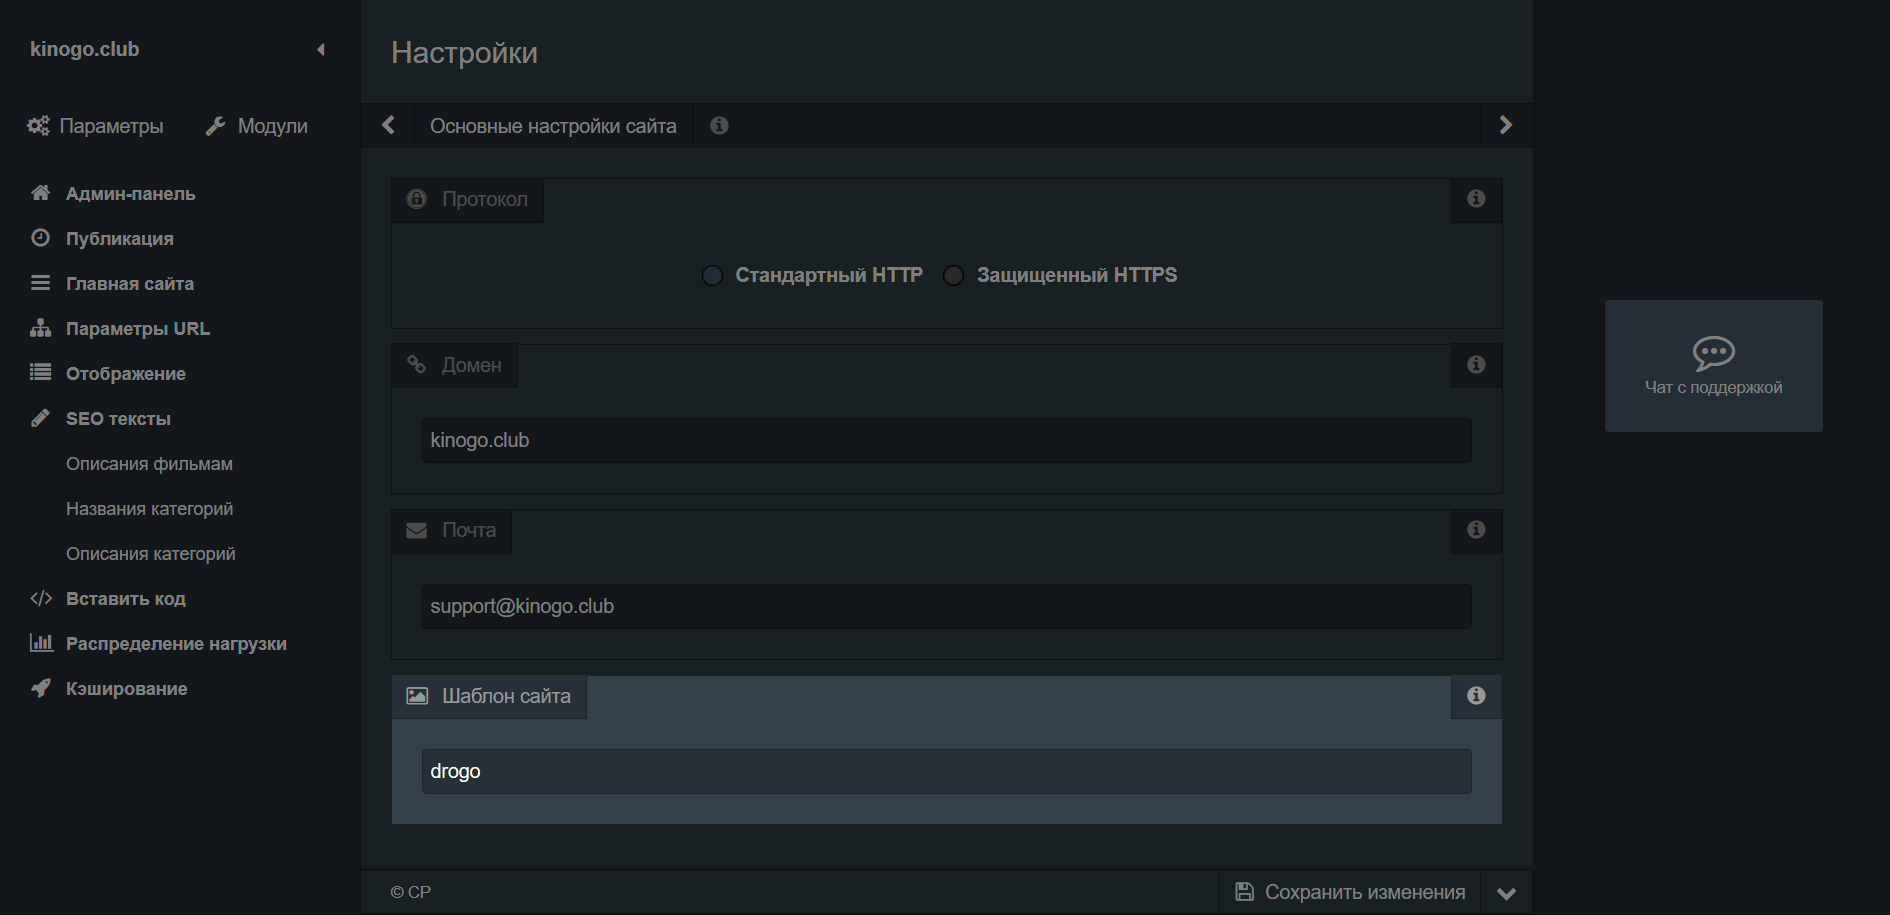
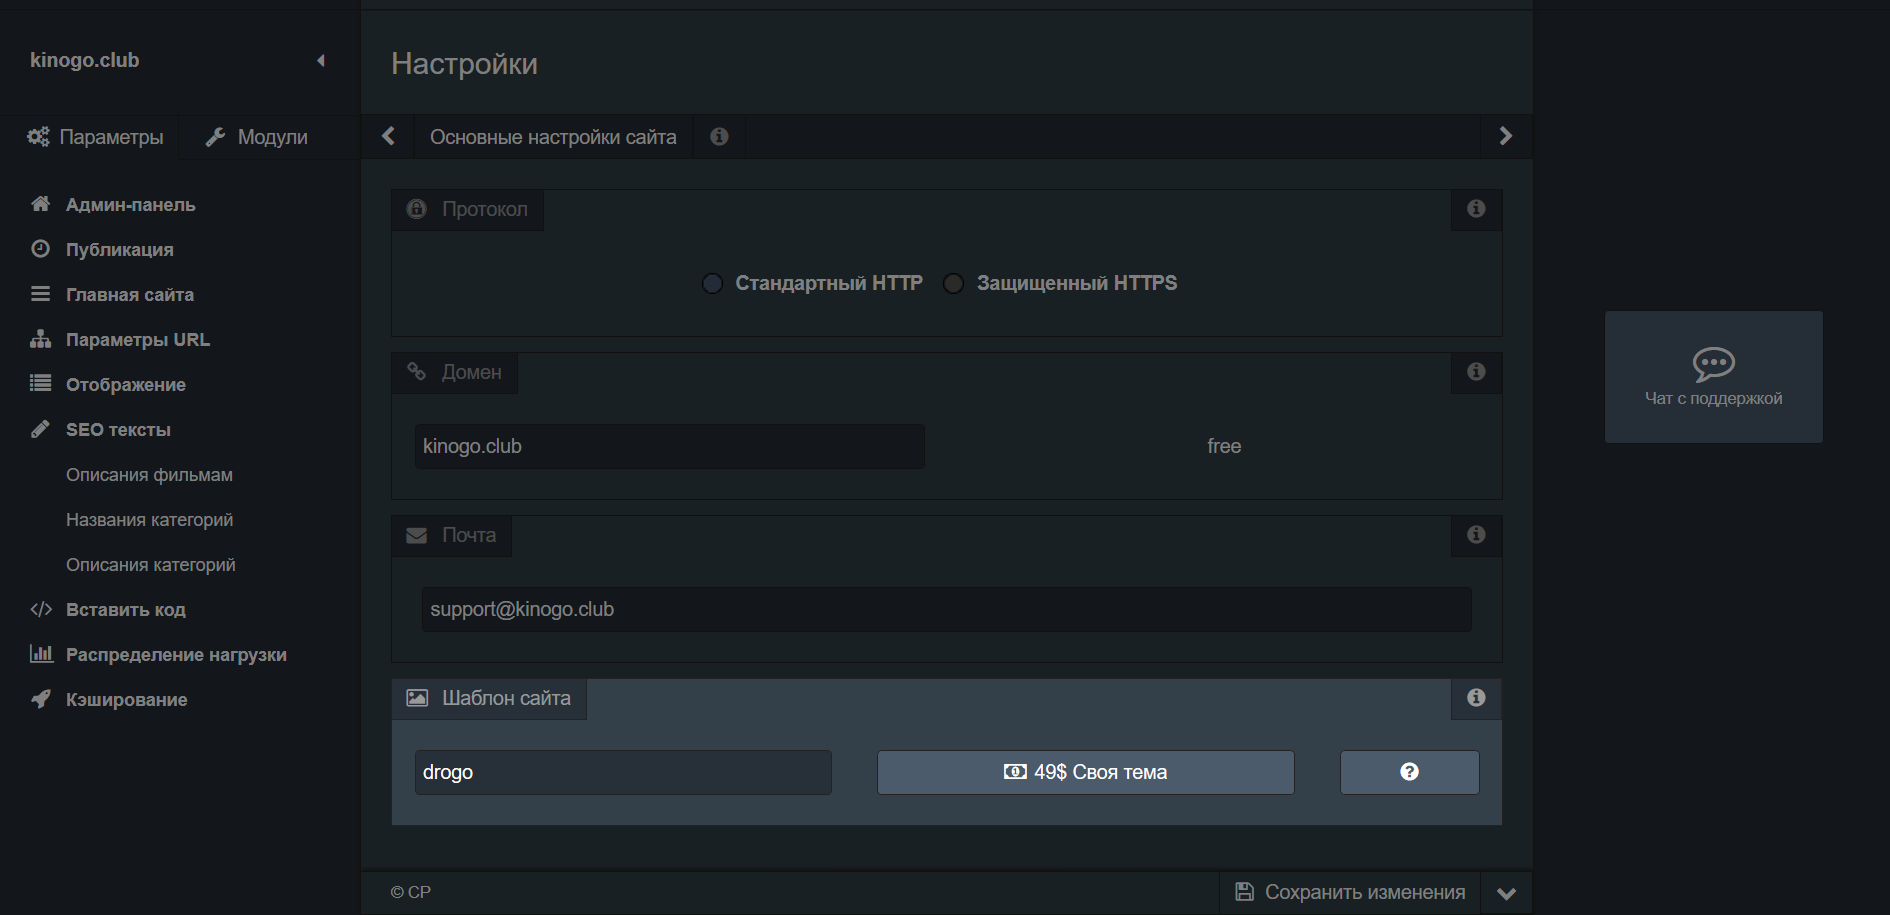
New images

diff --git a/article/chto-takoe-individualnaya-tema.html b/article/chto-takoe-individualnaya-tema.html
@@ -128,7 +128,7 @@
         <div class="row">
             <div class="col-md-12">
                 <div class="main-banner-content text-center">
-                    <h1>Что такое индивидуальная тема оформления?</h1>
+                    <h1>Что такое индивидуальная (своя) и общая тема оформления?</h1>
                     <ul class="breadcrumbs">
                         <li>
                             <a href="/">Главная</a>
@@ -150,7 +150,7 @@
         <div class="row">
             <div class="super-title">
                 <p style="text-align: justify">
-                    Перед тем, как заказать индивидуальную тему, Вы должны понять, что такое общая тема оформления, а что такое индивидуальная тема оформления и нужна ли они вообще Вам.
+                    Перед тем, как заказать индивидуальную (свою) тему, Вы должны понять, что такое общая тема оформления, а что такое индивидуальная тема оформления и нужна ли они вообще Вам.
                 </p>
             </div>
         </div>
@@ -179,11 +179,11 @@
         <div class="row">
             <div class="col-md-7 col-sm-6 col-xs-12">
                 <div class="main-title">
-                    <h3><a href="#individual">Индивидуальная тема</a></h3>
+                    <h3><a href="#individual">Индивидуальная (своя) тема</a></h3>
                     <div class="seperator"></div>
                 </div>
                 <p class="text-justify">
-                    Индивидуальная тема оформления - это индивидуальное оформление для Вашего сайта на основе любого сайта в интернете, какой Вы захотите. Вы даете ссылку на любой понравившийся Вам сайт и в таком же оформлении будет Ваш сайт на CinemaPress ACMS. Данная тема оформления будет стоять только на Вашем сайте <code>6 месяцев</code> и всем остальным не будет доступна. Если после срока защиты темы Вы захотите продлить его еще на пол года, то цена будет 49$, в противном случае, тема просто станет <a href="#public" data-scroll="#public">общей</a> и доступной для всех пользователей.
+                    Индивидуальная (своя) тема оформления - это индивидуальное оформление для Вашего сайта на основе любого сайта в интернете, какой Вы захотите. Вы даете ссылку на любой понравившийся Вам сайт и в таком же оформлении будет Ваш сайт на CinemaPress ACMS. Данная тема оформления будет стоять только на Вашем сайте <code>6 месяцев</code> и всем остальным не будет доступна. Если после срока защиты темы Вы захотите продлить его еще на пол года, то цена будет 49$, в противном случае, тема просто станет <a href="#public" data-scroll="#public">общей</a> и доступной для всех пользователей.
                 </p>
             </div>
             <div class="col-md-5 col-sm-6 col-xs-12">

diff --git a/admin/main.html b/admin/main.html
@@ -554,7 +554,7 @@
                     <div class="seperator"></div>
                 </div>
                 <p class="text-justify">
-                    Домен является информационным параметром и не может быть изменен. База фильмов CinemaPress закрепляется за доменом, т.е. одна база фильмов может работать только с одним доменом.
+                    Домен является информационным параметром и не может быть изменен. База фильмов CinemaPress закрепляется за доменом, т.е. одна база фильмов может работать только с одним доменом. Ключ, за которым закреплен домен Вы можете видеть справа от домена.
                 </p>
             </div>
             <div class="col-md-5 col-sm-6 col-xs-12">
@@ -590,7 +590,7 @@
                     <div class="seperator"></div>
                 </div>
                 <p class="text-justify">
-                    Название темы оформления сайта должно совпадать с названием папки в разделе <code>/themes/</code>. Если Вы хотите использовать сайт как API, тогда Вы можете указать название <code>default</code>, и все данные с сайта будут отдаваться в формате JSON.
+                    Название темы оформления сайта должно совпадать с названием папки в разделе <code>/themes/</code>. Если Вы хотите использовать сайт как API, тогда Вы можете указать название <code>default</code>, и все данные с сайта будут отдаваться в формате JSON. Помимо этого, Вы можете оплатить «<a href="/article/chto-takoe-individualnaya-tema.html" target="_blank">Индивидуальную тему оформления</a>» и выделиться своим дизайном киносайта, среди всех пользователей CinemaPress ACMS. Для продления защиты темы, Вы должны при оплате указать тот же Email адрес, с которым и заказывали тему.
                 </p>
             </div>
             <div class="col-md-5 col-sm-6 col-xs-12">
